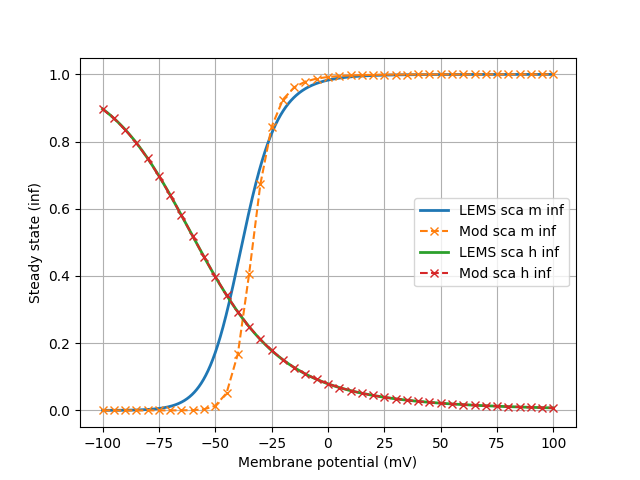
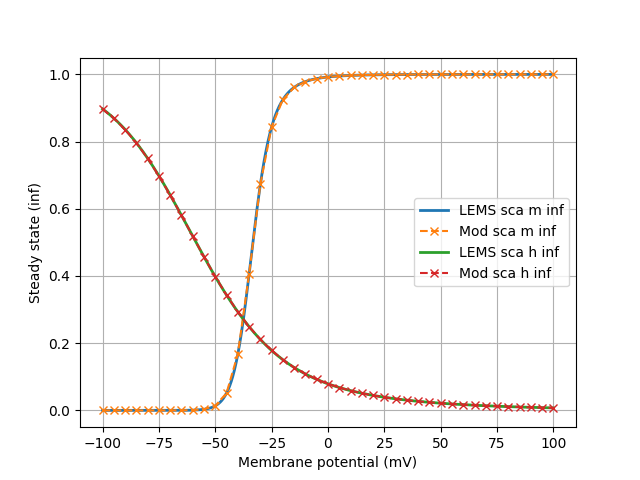
correcting the plots & file for sca channel

diff --git a/NeuroML2/export_nml2.py b/NeuroML2/export_nml2.py
@@ -3,10 +3,10 @@ from pyneuroml.neuron import export_to_neuroml2
 import sys
 import os
 
-os.chdir("../NEURON/init_models_with_ca")
+os.chdir("../NEURON/test")
 sys.path.append(".")
 
-export_to_neuroml2("init_model2.hoc", 
+export_to_neuroml2("Test_example1.hoc", 
                    "../../NeuroML2/init_model2.cell.nml", 
                    includeBiophysicalProperties=True,
                    known_rev_potentials={"na":60,"k":-90,"ca":140})
